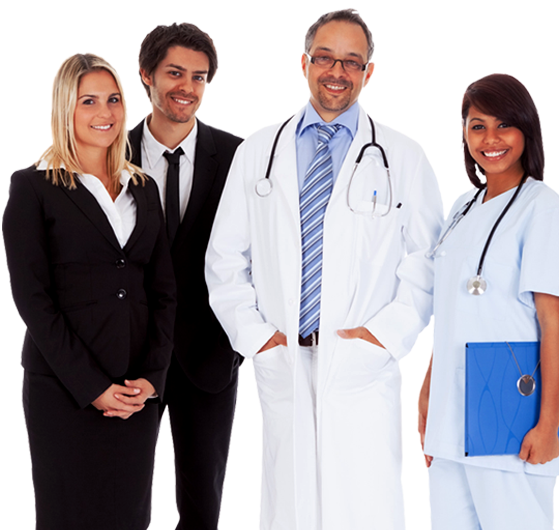
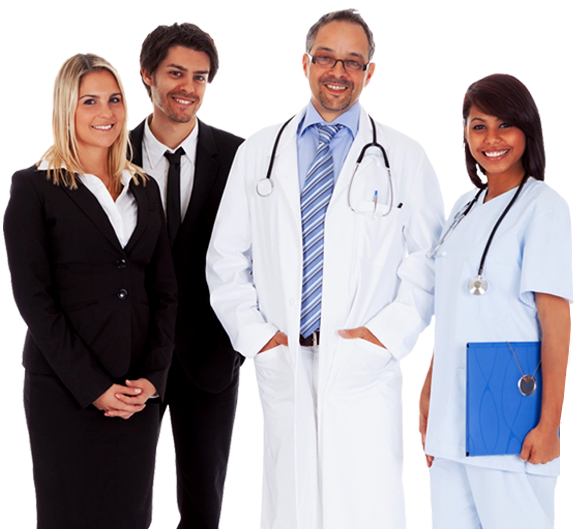
Check-in code for requirement 1 and 2

diff --git a/Source/NHSKPIWeb/assets/css/styles.css b/Source/NHSKPIWeb/assets/css/styles.css
@@ -1533,12 +1533,16 @@ table.accessHide { position: absolute; left: -999999px; }
 .trial .container_24 .grid_19 .grid_11 { width: 48.5% ;}
 .trial_wrap {background-color:#f7f7f7;min-height:580px;height:100%;}  
 .trial_details {background-color:#dee5f3;min-height:580px;height:100%} 
-.trial_wrap {position:relative}
+.trial_wrap 
+{
+    position:relative
+}
 .img_wrap {position:absolute;right:0;bottom:0;margin:0}
-.img_wrap img {width:100%; min-width:300px}
+.img_wrap img {width:100%;}
 .trial_wrap h1 {    font-family: "Open Sans",Arial,Helvetica,Sans-Serif;font-weight:500;margin:45px 0 35px 0;font-size:36px;line-height:33px} 
 .trial_wrap h2 {    font-family: "Open Sans",Arial,Helvetica,Sans-Serif;font-weight:500;margin:0px 0 35px 0;font-size:20px;}
-.trial_info {padding-left:20px}
+.trial_info {padding-left:20px; }
+.trial_info h1 {color: #2679B5;}
 .trial ul {margin-left:0;padding-left:30px}
  .trial ul li {padding: 0 0 0 10px;list-style-image:url(../images/trial_tick.png); font-family: "Open Sans",Arial,Helvetica,Sans-Serif;font-weight:300;font-size:18px;line-height:32px}
  .trial_details h3 {font-family: "Open Sans",Arial,Helvetica,Sans-Serif;font-weight:700;margin:10px 0 5px 0;font-size:20px;color:#0568b4}
@@ -1560,10 +1564,21 @@ table.accessHide { position: absolute; left: -999999px; }
     font-family: "Open Sans",Arial,Helvetica,Sans-Serif;
 }
 
+.trial .full-page-background 
+{
+    position:fixed;
+}
+
 
 .trial input[type=text]:hover, .trial input[type=password]:hover, .trial textarea:hover
 {
      border:1px solid #26a0da
+}
+
+.trial .page-background 
+{
+    width:47%;
+    margin-right:3%;
 }
 
 input.btnTry {width:97%;font-size:24px;font-family: "Open Sans",Arial,Helvetica,Sans-Serif;border:0;border-radius: 3px;font-weight: 400;padding: 8px 0;}
